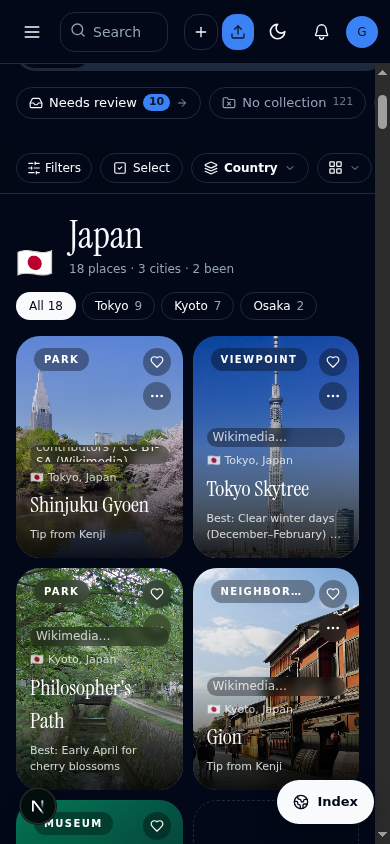
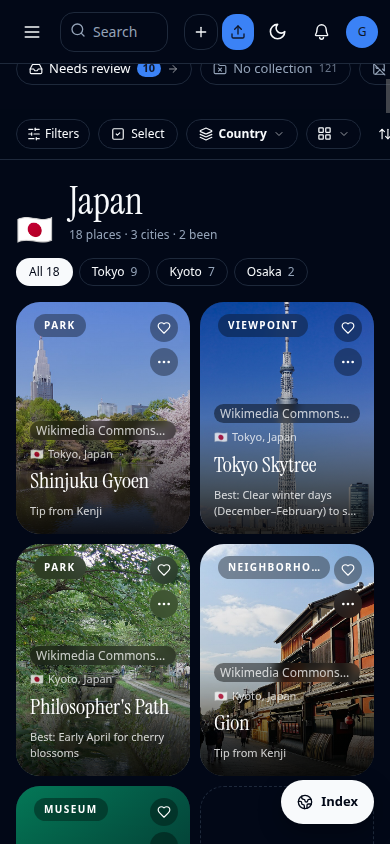
no-mistakes(document): Recapture photo-credit layout evidence

diff --git a/docs/evidence/td-photo-attribution/README.md b/docs/evidence/td-photo-attribution/README.md
@@ -4,8 +4,8 @@ Live captures from headless Chromium against `next dev` on `127.0.0.1:3524`, sig
 
 **Verified live:**
 
-- Library place grid (Japan tiles), not the atlas header. After frames show the Wikimedia caption. Before frames are the same scroll with that caption layer hidden, so the pair shows the caption itself. Desktop and phone, light and dark; each pair’s files differ. On `after-library-card-phone-light.png` Shinjuku Gyoen’s caption still wraps onto the location line. The one-line clamp in `src/components/attribution/cover-photo-credit.tsx` landed after these captures and was not re-shot.
-- Collection card. Before is Kyoto in autumn on the fallback Pexels cover (Pixabay). After sets a custom cover to the Kiyomizu Google photo; the card credits Jane Doe and shows the Google wordmark. Desktop and phone, light. Both after frames still let the place-count badge cover the end of the wordmark. The gutter in `src/components/collections/collection-card.tsx` landed after these captures and was not re-shot.
+- Library place grid (Japan tiles), not the atlas header. After frames show the Wikimedia caption. Before frames are the same scroll with that caption layer hidden, so the pair shows the caption itself. Desktop and phone, light and dark; each pair’s files differ. Phone light and phone dark after frames were recaptured after the one-line clamp in `src/components/attribution/cover-photo-credit.tsx`: Shinjuku Gyoen’s caption stays on one line above the flag and city.
+- Collection card. Before is Kyoto in autumn on the fallback Pexels cover (Pixabay). After sets a custom cover to the Kiyomizu Google photo; the card credits Jane Doe and shows the Google wordmark. Desktop and phone, light. Both after frames were recaptured after the badge gutter in `src/components/collections/collection-card.tsx`: the wordmark ends to the left of the place-count pill.
 - Lightbox. After light and after dark are different files. The dark frame is the Kiyomizu photo with “Photo by Jane Doe on Google” and the Google wordmark. Before frames hide that caption; the caption-less lightbox chrome is the same in both themes, so those two before files match.
 - Place hero, dark and light. The fixed white chip uses the light-background Google asset (`powered-by-google-light.svg`, one image) so the wordmark stays dark on that chip.
 
